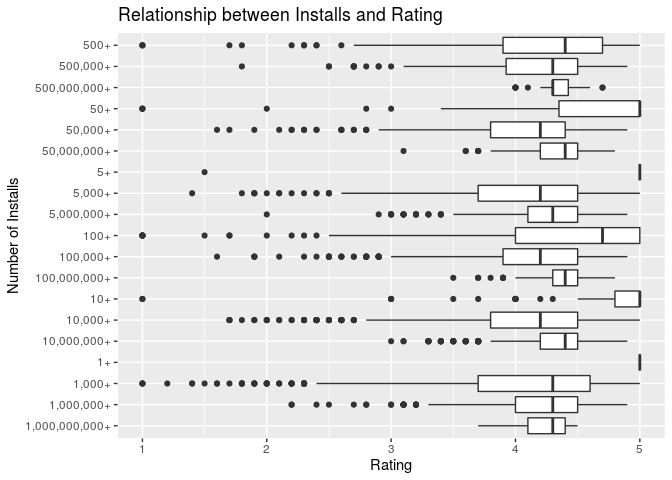
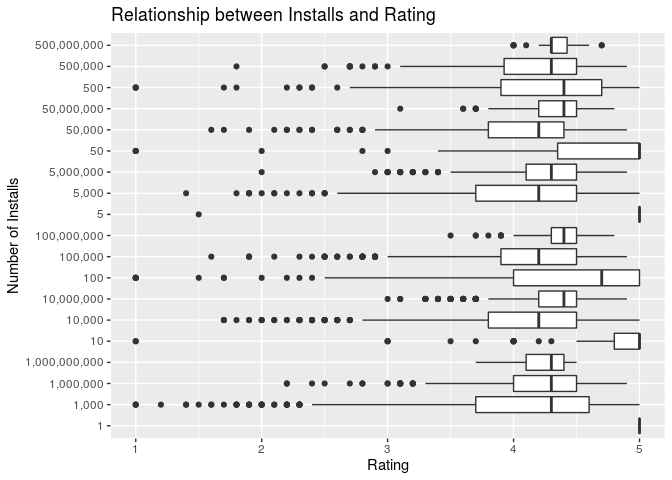
Data set string replacement

diff --git a/01-proposal/proposal.md b/01-proposal/proposal.md
@@ -70,6 +70,9 @@ apps <- read_csv("/cloud/project/02-data/googleplaystore.csv")
 ``` r
 apps <- apps %>%
   na.omit(apps)
+apps$Price <- str_replace(apps$Price, "\\$", "")
+apps$Size <- str_replace(apps$Size, "\\M", "")
+apps$Installs <- str_replace(apps$Installs, "\\+", "")
 ```
 
 ``` r
@@ -194,7 +197,11 @@ skim(apps, Price)
     ##  n obs: 9365 
     ##  n variables: 13 
     ## 
+<<<<<<< Updated upstream
     ## ── Variable type:character ──────────────────────────────────────────────────────
+=======
+    ## ── Variable type:character ──────────────────────────────────────────────────────────────────
+>>>>>>> Stashed changes
     ##  variable missing complete    n min max empty n_unique
     ##     Price       0     9365 9365   4  15     0        2
 
@@ -331,8 +338,8 @@ glimpse(apps)
     ## $ Category         <chr> "ART_AND_DESIGN", "ART_AND_DESIGN", "ART_AND_DE…
     ## $ Rating           <dbl> 4.1, 3.9, 4.7, 4.5, 4.3, 4.4, 3.8, 4.1, 4.4, 4.…
     ## $ Reviews          <dbl> 159, 967, 87510, 215644, 967, 167, 178, 36815, …
-    ## $ Size             <chr> "19M", "14M", "8.7M", "25M", "2.8M", "5.6M", "1…
-    ## $ Installs         <chr> "10,000+", "500,000+", "5,000,000+", "50,000,00…
+    ## $ Size             <chr> "19", "14", "8.7", "25", "2.8", "5.6", "19", "2…
+    ## $ Installs         <chr> "10,000", "500,000", "5,000,000", "50,000,000",…
     ## $ Type             <chr> "Free", "Free", "Free", "Free", "Free", "Free",…
     ## $ Price            <chr> "Free", "Free", "Free", "Free", "Free", "Free",…
     ## $ `Content Rating` <chr> "Everyone", "Everyone", "Everyone", "Teen", "Ev…
